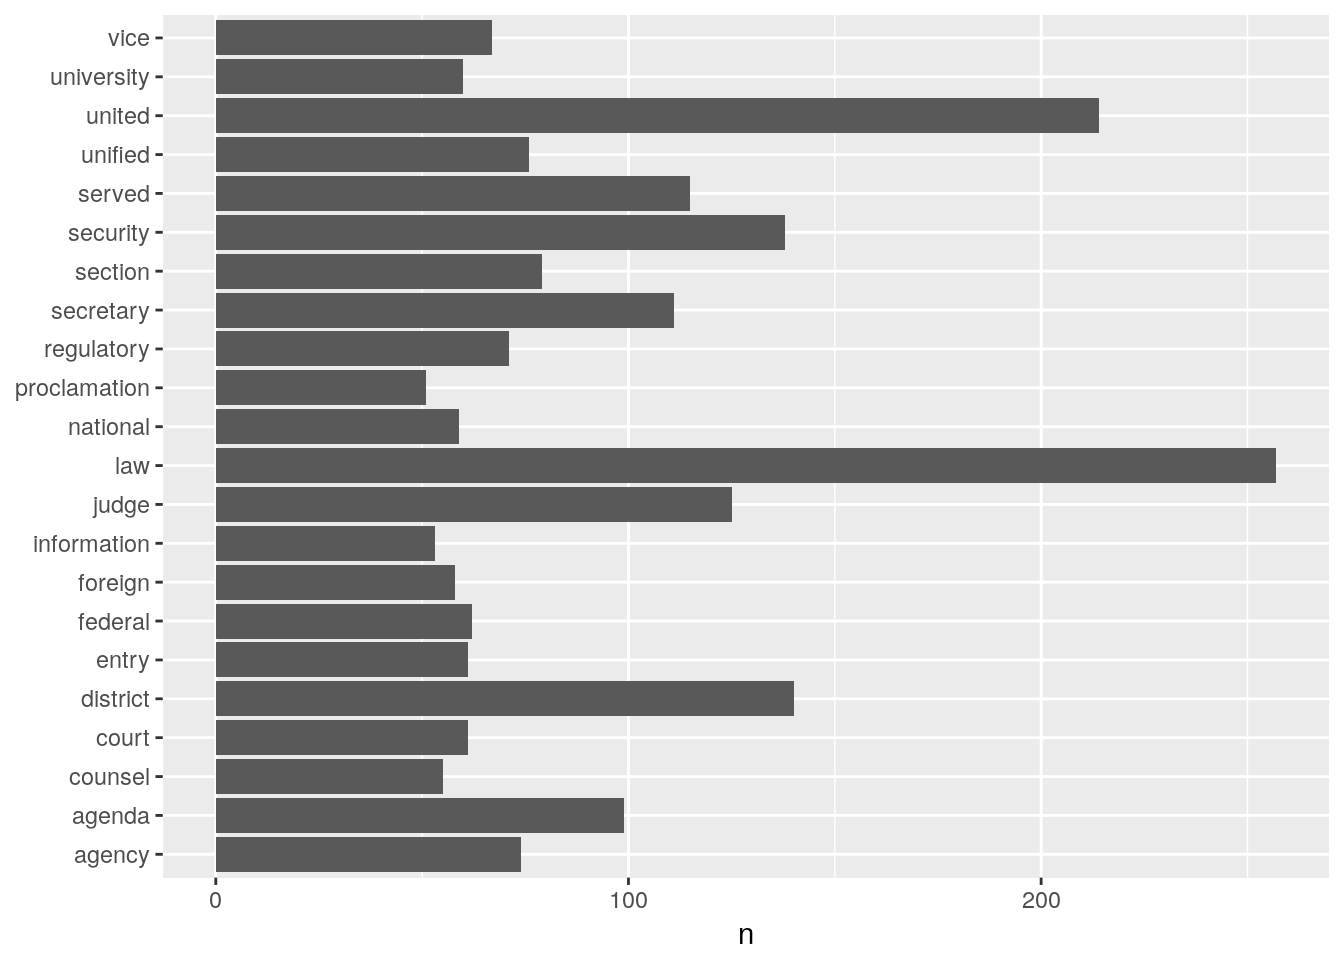
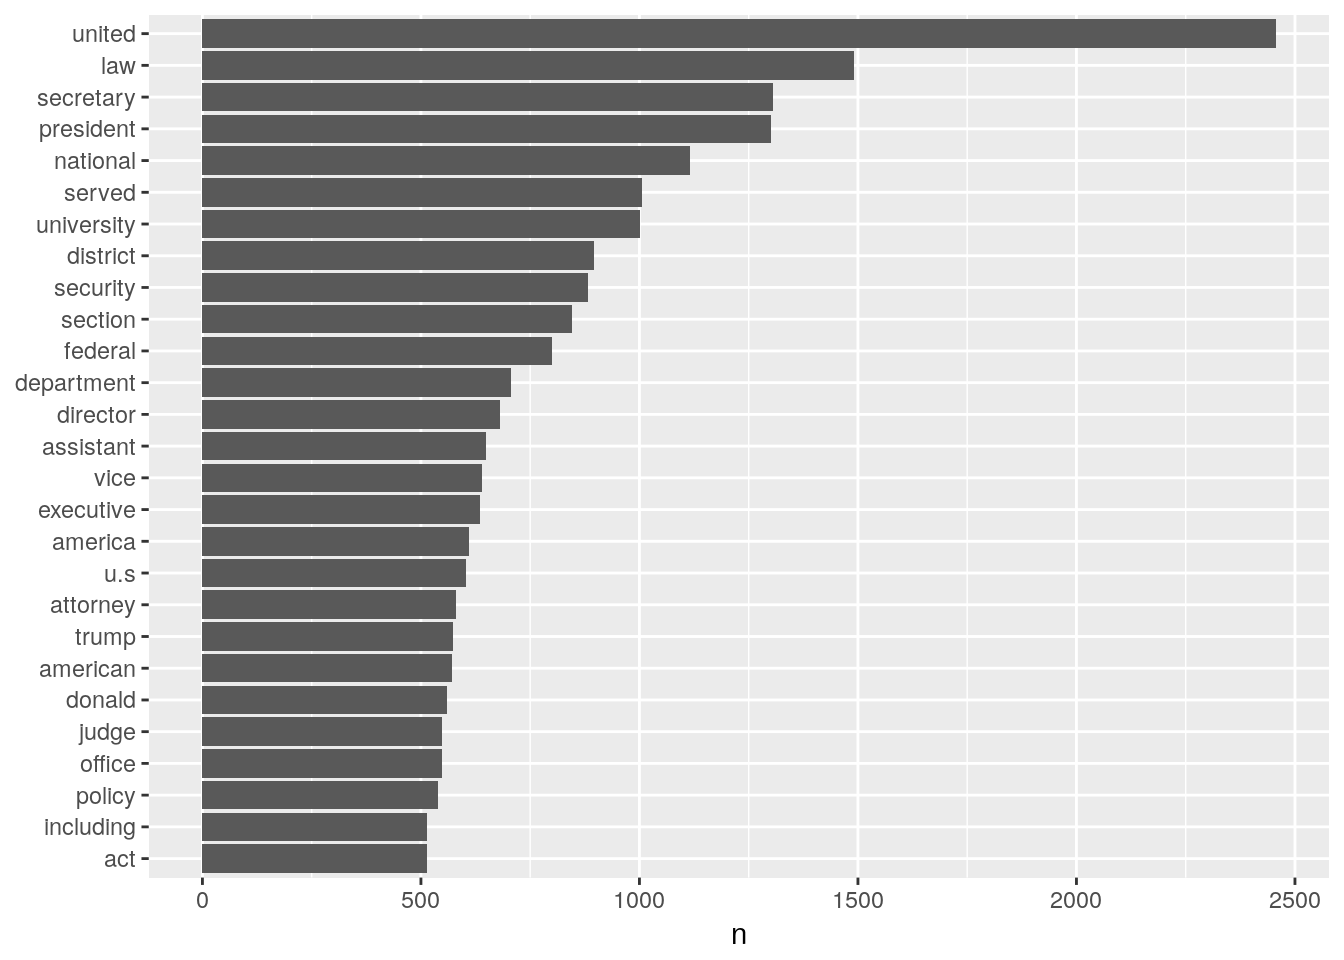
Fixed Groupings in the Blog

diff --git a/public/post/tidytext-is-neat/index.html b/public/post/tidytext-is-neat/index.html
@@ -80,7 +80,7 @@ The site is split in four parts: all news, articles, presidential actions, and b
   
   <meta property="og:site_name" content="Robert W. Walker">
   <meta property="og:url" content="https://rwalker.netlify.com/post/tidytext-is-neat/">
-  <meta property="og:title" content="tidytext is neat! | Robert W. Walker">
+  <meta property="og:title" content="tidytext is neat! White House Communications | Robert W. Walker">
   <meta property="og:description" content="Presidential Press The language of presidential communications is interesting and I know very little about text as data. I have a number of applications in mind for these tools but I have to learn how to use them. What does the website look like?
 White House News
 The site is split in four parts: all news, articles, presidential actions, and briefings and statements. The first one is a catch all and the second is news links.">
@@ -93,7 +93,7 @@ The site is split in four parts: all news, articles, presidential actions, and b
 
   
 
-  <title>tidytext is neat! | Robert W. Walker</title>
+  <title>tidytext is neat! White House Communications | Robert W. Walker</title>
 
 </head>
 <body id="top" data-spy="scroll" data-target="#toc" data-offset="71" class="dark">
@@ -252,7 +252,7 @@ The site is split in four parts: all news, articles, presidential actions, and b
 
 
   <div class="article-container">
-    <h1 itemprop="name">tidytext is neat!</h1>
+    <h1 itemprop="name">tidytext is neat! White House Communications</h1>
 
     
 
@@ -271,7 +271,7 @@ The site is split in four parts: all news, articles, presidential actions, and b
   
   <span class="middot-divider"></span>
   <span class="article-reading-time">
-    3 min read
+    4 min read
   </span>
   
 
@@ -289,7 +289,7 @@ The site is split in four parts: all news, articles, presidential actions, and b
   <ul class="share">
     <li>
       <a class="twitter"
-         href="https://twitter.com/intent/tweet?text=tidytext%20is%20neat%21&amp;url=https%3a%2f%2frwalker.netlify.com%2fpost%2ftidytext-is-neat%2f"
+         href="https://twitter.com/intent/tweet?text=tidytext%20is%20neat%21%20White%20House%20Communications&amp;url=https%3a%2f%2frwalker.netlify.com%2fpost%2ftidytext-is-neat%2f"
          target="_blank" rel="noopener">
         <i class="fa fa-twitter"></i>
       </a>
@@ -303,21 +303,21 @@ The site is split in four parts: all news, articles, presidential actions, and b
     </li>
     <li>
       <a class="linkedin"
-         href="https://www.linkedin.com/shareArticle?mini=true&amp;url=https%3a%2f%2frwalker.netlify.com%2fpost%2ftidytext-is-neat%2f&amp;title=tidytext%20is%20neat%21"
+         href="https://www.linkedin.com/shareArticle?mini=true&amp;url=https%3a%2f%2frwalker.netlify.com%2fpost%2ftidytext-is-neat%2f&amp;title=tidytext%20is%20neat%21%20White%20House%20Communications"
          target="_blank" rel="noopener">
         <i class="fa fa-linkedin"></i>
       </a>
     </li>
     <li>
       <a class="weibo"
-         href="http://service.weibo.com/share/share.php?url=https%3a%2f%2frwalker.netlify.com%2fpost%2ftidytext-is-neat%2f&amp;title=tidytext%20is%20neat%21"
+         href="http://service.weibo.com/share/share.php?url=https%3a%2f%2frwalker.netlify.com%2fpost%2ftidytext-is-neat%2f&amp;title=tidytext%20is%20neat%21%20White%20House%20Communications"
          target="_blank" rel="noopener">
         <i class="fa fa-weibo"></i>
       </a>
     </li>
     <li>
       <a class="email"
-         href="mailto:?subject=tidytext%20is%20neat%21&amp;body=https%3a%2f%2frwalker.netlify.com%2fpost%2ftidytext-is-neat%2f">
+         href="mailto:?subject=tidytext%20is%20neat%21%20White%20House%20Communications&amp;body=https%3a%2f%2frwalker.netlify.com%2fpost%2ftidytext-is-neat%2f">
         <i class="fa fa-envelope"></i>
       </a>
     </li>
@@ -394,11 +394,12 @@ save(Pres.Acts,PresAct.linkset,Statements.Briefings,BriefState.linkset, file=&qu
 </div>
 <div id="tidying-the-text" class="section level1">
 <h1>Tidying the Text</h1>
+<pre class="r"><code>load(&quot;~/R/MyNLWeb/data/PresText.RData&quot;)</code></pre>
+<p>The hard work is in cleaning up the text. When the document was compiled, there were 2074 statements and briefings and there were 457 Presidential actions with each as a list in the bigger list. I will unlist each individual document and transform it to character. For housekeeping, I will also tally the docs and the line/paragraph numbers; this fails for a misalignment in one of the two examples.</p>
 <pre class="r"><code>library(dplyr)
 library(magrittr)
 library(tidytext)
-load(&quot;~/R/MyNLWeb/data/PresText.RData&quot;)
-text_df &lt;- data_frame(text=as.character(unlist(Pres.Acts)))
+text_df &lt;- data_frame(text=as.character(unlist(Pres.Acts))) # Create characters
 k &lt;- NULL
 for (i in 1:length(Pres.Acts)) {
   k &lt;- c(k,length(Pres.Acts[[i]]))
@@ -406,10 +407,10 @@ for (i in 1:length(Pres.Acts)) {
 mydoc &lt;- data.frame(rep(c(seq(1,length(Pres.Acts))),k))
 myline &lt;- data.frame(unlist(as.vector(sapply(k, function(x) {cbind(seq(1,x))}))))
 ind.df &lt;- data.frame(doc=mydoc,line=myline)
-myPA.df &lt;- data.frame(doc=mydoc,line=myline,text=text_df)
+myPA.df &lt;- data.frame(doc=mydoc,line=myline,text=text_df) # A full dataset
 names(myPA.df) &lt;- c(&quot;doc&quot;,&quot;line&quot;,&quot;text&quot;)
 tidy.PA &lt;-myPA.df %&gt;%
- group_by(doc) %&gt;%
+# group_by(doc) %&gt;%
  unnest_tokens(word, text)
 text_df &lt;- data_frame(text=as.character(unlist(Statements.Briefings)))
 k &lt;- NULL
@@ -422,37 +423,47 @@ mydoc &lt;- rep(c(seq(1,length(Statements.Briefings))),k)
 mySB.df &lt;- data.frame(doc=mydoc,text=text_df)
 names(mySB.df) &lt;- c(&quot;doc&quot;,&quot;text&quot;)
 tidy.SB &lt;-mySB.df %&gt;%
- group_by(doc) %&gt;%
+# group_by(doc) %&gt;%
  unnest_tokens(word, text)
 data(stop_words)
+# Remove stop words
 tidy.SB &lt;- tidy.SB %&gt;%
   anti_join(stop_words)
 tidy.PA &lt;- tidy.PA %&gt;%
   anti_join(stop_words)</code></pre>
-<p>So what does the President talk about?</p>
+</div>
+<div id="what-does-the-president-talk-about" class="section level1">
+<h1>what does the President talk about?</h1>
+<p>Word frequencies can be tabulated for each set of data. I will plot the barplots.</p>
+<div id="statements-and-briefings" class="section level2">
+<h2>Statements and Briefings</h2>
 <pre class="r"><code>library(ggplot2)
 tidy.SB %&gt;%
   count(word, sort = TRUE) %&gt;%
-  filter(n &gt; 80) %&gt;%
+  filter(n &gt; 5000) %&gt;%
   mutate(word = reorder(word, n)) %&gt;%
   ggplot(aes(word, n)) +
   geom_col() +
   xlab(NULL) +
   coord_flip()</code></pre>
 <p><img src="/post/2018-02-21-tidytext-is-neat_files/figure-html/SBplot-1.png" width="672" /></p>
+</div>
+<div id="presidential-actions" class="section level2">
+<h2>Presidential Actions</h2>
 <pre class="r"><code>library(ggplot2)
 tidy.PA %&gt;%
   count(word, sort = TRUE) %&gt;%
-  filter(n &gt; 50) %&gt;%
+  filter(n &gt; 500) %&gt;%
   mutate(word = reorder(word, n)) %&gt;%
   ggplot(aes(word, n)) +
   geom_col() +
   xlab(NULL) +
   coord_flip()</code></pre>
 <p><img src="/post/2018-02-21-tidytext-is-neat_files/figure-html/PAplot-1.png" width="672" /></p>
+</div>
 <div id="word-clouds" class="section level2">
 <h2>Word Clouds</h2>
-<div id="presidential-actions" class="section level3">
+<div id="presidential-actions-1" class="section level3">
 <h3>Presidential Actions</h3>
 <pre class="r"><code>library(wordcloud)
 set.seed(1234)
@@ -462,7 +473,7 @@ wordcloud(wc$word,  wc$n, min.freq = 1,
           colors=brewer.pal(8, &quot;Dark2&quot;))</code></pre>
 <p><img src="/post/2018-02-21-tidytext-is-neat_files/figure-html/WCPA-1.png" width="672" /></p>
 </div>
-<div id="statements-and-briefings" class="section level3">
+<div id="statements-and-briefings-1" class="section level3">
 <h3>Statements and Briefings</h3>
 <pre class="r"><code>set.seed(1234)
 wc &lt;- tidy.SB %&gt;% count(word, sort = TRUE)

diff --git a/content/post/2018-02-21-tidytext-is-neat.html b/content/post/2018-02-21-tidytext-is-neat.html
@@ -1,5 +1,5 @@
 ---
-title: "tidytext is neat!"
+title: "tidytext is neat! White House Communications"
 author: "RWW"
 date: '2018-02-21'
 slug: tidytext-is-neat
@@ -76,11 +76,12 @@ save(Pres.Acts,PresAct.linkset,Statements.Briefings,BriefState.linkset, file=&qu
 </div>
 <div id="tidying-the-text" class="section level1">
 <h1>Tidying the Text</h1>
+<pre class="r"><code>load(&quot;~/R/MyNLWeb/data/PresText.RData&quot;)</code></pre>
+<p>The hard work is in cleaning up the text. When the document was compiled, there were 2074 statements and briefings and there were 457 Presidential actions with each as a list in the bigger list. I will unlist each individual document and transform it to character. For housekeeping, I will also tally the docs and the line/paragraph numbers; this fails for a misalignment in one of the two examples.</p>
 <pre class="r"><code>library(dplyr)
 library(magrittr)
 library(tidytext)
-load(&quot;~/R/MyNLWeb/data/PresText.RData&quot;)
-text_df &lt;- data_frame(text=as.character(unlist(Pres.Acts)))
+text_df &lt;- data_frame(text=as.character(unlist(Pres.Acts))) # Create characters
 k &lt;- NULL
 for (i in 1:length(Pres.Acts)) {
   k &lt;- c(k,length(Pres.Acts[[i]]))
@@ -88,10 +89,10 @@ for (i in 1:length(Pres.Acts)) {
 mydoc &lt;- data.frame(rep(c(seq(1,length(Pres.Acts))),k))
 myline &lt;- data.frame(unlist(as.vector(sapply(k, function(x) {cbind(seq(1,x))}))))
 ind.df &lt;- data.frame(doc=mydoc,line=myline)
-myPA.df &lt;- data.frame(doc=mydoc,line=myline,text=text_df)
+myPA.df &lt;- data.frame(doc=mydoc,line=myline,text=text_df) # A full dataset
 names(myPA.df) &lt;- c(&quot;doc&quot;,&quot;line&quot;,&quot;text&quot;)
 tidy.PA &lt;-myPA.df %&gt;%
- group_by(doc) %&gt;%
+# group_by(doc) %&gt;%
  unnest_tokens(word, text)
 text_df &lt;- data_frame(text=as.character(unlist(Statements.Briefings)))
 k &lt;- NULL
@@ -104,37 +105,47 @@ mydoc &lt;- rep(c(seq(1,length(Statements.Briefings))),k)
 mySB.df &lt;- data.frame(doc=mydoc,text=text_df)
 names(mySB.df) &lt;- c(&quot;doc&quot;,&quot;text&quot;)
 tidy.SB &lt;-mySB.df %&gt;%
- group_by(doc) %&gt;%
+# group_by(doc) %&gt;%
  unnest_tokens(word, text)
 data(stop_words)
+# Remove stop words
 tidy.SB &lt;- tidy.SB %&gt;%
   anti_join(stop_words)
 tidy.PA &lt;- tidy.PA %&gt;%
   anti_join(stop_words)</code></pre>
-<p>So what does the President talk about?</p>
+</div>
+<div id="what-does-the-president-talk-about" class="section level1">
+<h1>what does the President talk about?</h1>
+<p>Word frequencies can be tabulated for each set of data. I will plot the barplots.</p>
+<div id="statements-and-briefings" class="section level2">
+<h2>Statements and Briefings</h2>
 <pre class="r"><code>library(ggplot2)
 tidy.SB %&gt;%
   count(word, sort = TRUE) %&gt;%
-  filter(n &gt; 80) %&gt;%
+  filter(n &gt; 5000) %&gt;%
   mutate(word = reorder(word, n)) %&gt;%
   ggplot(aes(word, n)) +
   geom_col() +
   xlab(NULL) +
   coord_flip()</code></pre>
 <p><img src="/post/2018-02-21-tidytext-is-neat_files/figure-html/SBplot-1.png" width="672" /></p>
+</div>
+<div id="presidential-actions" class="section level2">
+<h2>Presidential Actions</h2>
 <pre class="r"><code>library(ggplot2)
 tidy.PA %&gt;%
   count(word, sort = TRUE) %&gt;%
-  filter(n &gt; 50) %&gt;%
+  filter(n &gt; 500) %&gt;%
   mutate(word = reorder(word, n)) %&gt;%
   ggplot(aes(word, n)) +
   geom_col() +
   xlab(NULL) +
   coord_flip()</code></pre>
 <p><img src="/post/2018-02-21-tidytext-is-neat_files/figure-html/PAplot-1.png" width="672" /></p>
+</div>
 <div id="word-clouds" class="section level2">
 <h2>Word Clouds</h2>
-<div id="presidential-actions" class="section level3">
+<div id="presidential-actions-1" class="section level3">
 <h3>Presidential Actions</h3>
 <pre class="r"><code>library(wordcloud)
 set.seed(1234)
@@ -144,7 +155,7 @@ wordcloud(wc$word,  wc$n, min.freq = 1,
           colors=brewer.pal(8, &quot;Dark2&quot;))</code></pre>
 <p><img src="/post/2018-02-21-tidytext-is-neat_files/figure-html/WCPA-1.png" width="672" /></p>
 </div>
-<div id="statements-and-briefings" class="section level3">
+<div id="statements-and-briefings-1" class="section level3">
 <h3>Statements and Briefings</h3>
 <pre class="r"><code>set.seed(1234)
 wc &lt;- tidy.SB %&gt;% count(word, sort = TRUE)

diff --git a/public/tags/r-markdown/index.html b/public/tags/r-markdown/index.html
@@ -250,7 +250,7 @@
   
   
   <div>
-    <h2><a href="https://rwalker.netlify.com/post/tidytext-is-neat/">tidytext is neat!</a></h2>
+    <h2><a href="https://rwalker.netlify.com/post/tidytext-is-neat/">tidytext is neat! White House Communications</a></h2>
     <div class="article-style">
       
       Presidential Press The language of presidential communications is interesting and I know very little about text as data. I have a number of applications in mind for these tools but I have to learn how to use them. What does the website look like?

diff --git a/public/tags/r/index.html b/public/tags/r/index.html
@@ -250,7 +250,7 @@
   
   
   <div>
-    <h2><a href="https://rwalker.netlify.com/post/tidytext-is-neat/">tidytext is neat!</a></h2>
+    <h2><a href="https://rwalker.netlify.com/post/tidytext-is-neat/">tidytext is neat! White House Communications</a></h2>
     <div class="article-style">
       
       Presidential Press The language of presidential communications is interesting and I know very little about text as data. I have a number of applications in mind for these tools but I have to learn how to use them. What does the website look like?

diff --git a/public/tags/tidytext/index.html b/public/tags/tidytext/index.html
@@ -250,7 +250,7 @@
   
   
   <div>
-    <h2><a href="https://rwalker.netlify.com/post/tidytext-is-neat/">tidytext is neat!</a></h2>
+    <h2><a href="https://rwalker.netlify.com/post/tidytext-is-neat/">tidytext is neat! White House Communications</a></h2>
     <div class="article-style">
       
       Presidential Press The language of presidential communications is interesting and I know very little about text as data. I have a number of applications in mind for these tools but I have to learn how to use them. What does the website look like?

diff --git a/public/tags/tidyverse/index.html b/public/tags/tidyverse/index.html
@@ -250,7 +250,7 @@
   
   
   <div>
-    <h2><a href="https://rwalker.netlify.com/post/tidytext-is-neat/">tidytext is neat!</a></h2>
+    <h2><a href="https://rwalker.netlify.com/post/tidytext-is-neat/">tidytext is neat! White House Communications</a></h2>
     <div class="article-style">
       
       Presidential Press The language of presidential communications is interesting and I know very little about text as data. I have a number of applications in mind for these tools but I have to learn how to use them. What does the website look like?

diff --git a/public/index.html b/public/index.html
@@ -813,7 +813,7 @@
   
   <span class="middot-divider"></span>
   <span class="article-reading-time">
-    3 min read
+    4 min read
   </span>
   
 
@@ -833,7 +833,7 @@
   
   
   <h3 class="article-title" itemprop="headline">
-    <a href="https://rwalker.netlify.com/post/tidytext-is-neat/" itemprop="url">tidytext is neat!</a>
+    <a href="https://rwalker.netlify.com/post/tidytext-is-neat/" itemprop="url">tidytext is neat! White House Communications</a>
   </h3>
   <div class="article-style" itemprop="articleBody">
     

diff --git a/public/post/index.html b/public/post/index.html
@@ -261,7 +261,7 @@
   
   <span class="middot-divider"></span>
   <span class="article-reading-time">
-    3 min read
+    4 min read
   </span>
   
 
@@ -281,7 +281,7 @@
   
   
   <h3 class="article-title" itemprop="headline">
-    <a href="https://rwalker.netlify.com/post/tidytext-is-neat/" itemprop="url">tidytext is neat!</a>
+    <a href="https://rwalker.netlify.com/post/tidytext-is-neat/" itemprop="url">tidytext is neat! White House Communications</a>
   </h3>
   <div class="article-style" itemprop="articleBody">
     

diff --git a/public/404.html b/public/404.html
@@ -245,7 +245,7 @@
   <h2>Posts</h2>
   
   <ul>
-    <li><a href="https://rwalker.netlify.com/post/tidytext-is-neat/">tidytext is neat!</a></li>
+    <li><a href="https://rwalker.netlify.com/post/tidytext-is-neat/">tidytext is neat! White House Communications</a></li>
   </ul>
   
   <ul>
